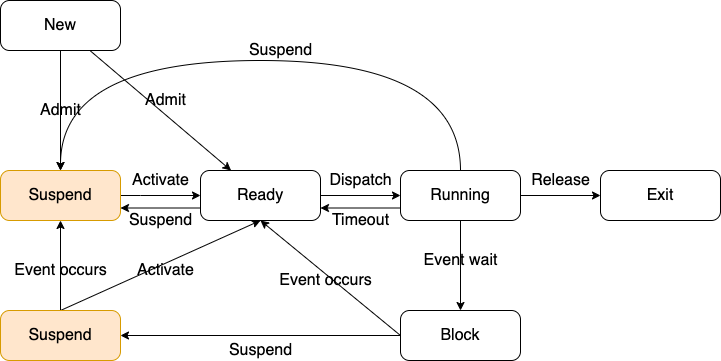
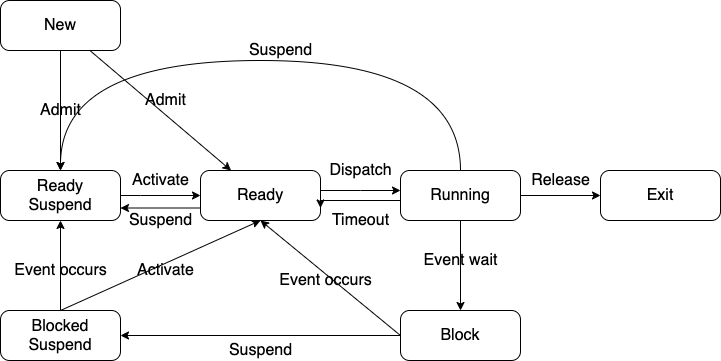
feat: update UESTC_OS and MySQL note

Changed region(s): [[0.0, 0.8532, 0.1831, 1.0], [0.0, 0.4571, 0.1831, 0.6094], [0.4272, 0.4571, 0.5492, 0.5789]]

diff --git a/Computer/UESTC_OS/process_description.md b/Computer/UESTC_OS/process_description.md
@@ -4,7 +4,7 @@
 ## 构成
 - 程序
 - 数据
-- PCB: `Process Control Block` *[进程控制块](https://www.jianshu.com/p/3f5ad390433f), 其中包含了进程情况和控制进程执行的重要信息*
+- PCB: `Process Control Block` *[进程控制块](https://www.jianshu.com/p/3f5ad390433f), 其中包含了进程情况和控制进程执行的重要信息, 常驻内存*
 
 ## 并发
 ?> 程序的并发执行条件: `R(P1)∩W(P2)∪W(P1)∩R(P2)∪W(P1)∩R(P2) = {}`  
@@ -50,10 +50,13 @@
 
 ## Swaping
 
-将系统中暂时不用的进程(阻塞), `Swaping-out` 到外存, 以腾出足够的内存空间, 此时进程的状态为 **挂起状态**; 把已经具备运行条件的进程 `Swaping-in` 到内存
+*当所有进程都在阻塞时, 即没有 `Ready` 状态的进程*, 将系统中暂时不用的进程(阻塞), `Swaping-out` 到外存, 以腾出足够的内存空间, 此时进程的状态为 **挂起状态**; 把已经具备运行条件的进程 `Swaping-in` 到内存
 
 ### 挂起状态 Suspend
 - 使之挂起的进程: `OS` / 父进程 / 自身
 - 使之有挂起状态转换为其他状态: **使之挂起的进程**
 
 ![](../../assets/images/UESTC_OS_process_state7_graph.png)
+
+当发生进程切换时, 因为需要分派程序负责切换进程, 分派程序实际上是系统态(基础平台子系统), 所以一定会发生模式的切换
+

diff --git a/Computer/UESTC_OS/thread.md b/Computer/UESTC_OS/thread.md
@@ -1,0 +1,26 @@
+# 线程
+
+![](../../assets/images/UESTC_OS_thread_graph.png)
+
+线程由进程派生(`spawn`) 而来
+
+- 也有状态 `state`
+- 被中断时也会保存上下文 `context`
+- 拥有自己的执行堆栈 `execution stack`
+- 拥有自己的局部变量 `local variables` & 静态存储 `static storage`
+- 线程分为两类:
+    - `user level thread` 用户线程
+        - 从 `kernal` 角度看并不知道有用户线程存在, 所以 **`TCP` 并不会保存到内存**
+        - 用户线程及其数据结构和原语在 [核外子系统](./overview.md#双模式基础平台子系统) `User Mode` 中实现
+    - `kernal level thread` 操作系统线程
+        - 有操作系统内核来维护数据结构
+        - 用户线程及其数据结构和原语在 [核心子系统](./overview.md#双模式基础平台子系统) `Kernal Mode` 中实现
+
+## 与进程的区别
+进程是资源的分配单位, 线程是调度单位; 创建进程时为进程分配资源, 进程调度线程去完成每个任务, 所有线程共享了进程的资源;
+
+## 线程的优点
+- *创建线程* 比创建进程消耗的时间短
+- *终止线程* 比终止进程消耗的时间短
+- *切换同进程中的线程* 比切换进程开销要小
+

diff --git a/Databases/MySQL/README.md b/Databases/MySQL/README.md
@@ -78,5 +78,20 @@ mysql> select Host,User,plugin from user;
 4 rows in set (0.00 sec)
 ```
 
+## 修改密码
+> 适用于 `mysql8.x`
+
+```bash
+brew services stop mysql
+# 启动 mysql_safe 并进入
+mysqld_safe --skip-grant-tables &
+mysql
+
+mysql> use mysql;
+mysql> ALTER user 'root'@'localhost' IDENTIFIED BY 'your password'
+# 若出现 ERROR 1290 (HY000): The MySQL server is running with the --skip-grant-tables 错误
+# 需要执行一下 flush privileges;
+```
+
 ## refer
 - [mysql_secure_installation 安装](http://blog.itpub.net/30936525/viewspace-2016528/)

diff --git a/_sidebar.md b/_sidebar.md
@@ -2,8 +2,9 @@
 - [OS](/Computer/README.md)
     - [🎬 计算机操作系统](/Computer/UESTC_OS/README.md)
         - [1-概述](/Computer/UESTC_OS/overview.md)
-        - 2-进程
+        - 2-进程&线程
              - [2-1-进程描述与控制](/Computer/UESTC_OS/process_description.md)
+             - [2-1-线程](/Computer/UESTC_OS/thread.md)
 - [PHP](/PHP/README.md)
     - [nginx](/PHP/nginx.md)
     - [FastCGI](/PHP/FastCGI.md)
